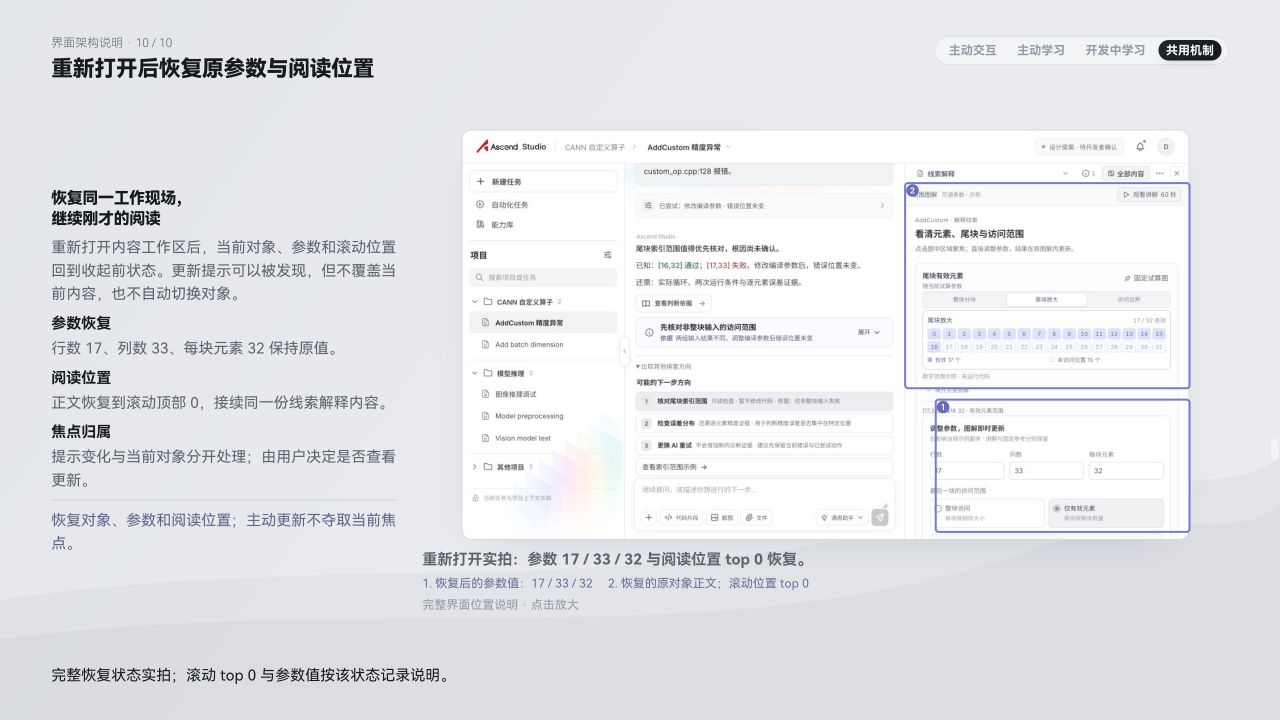
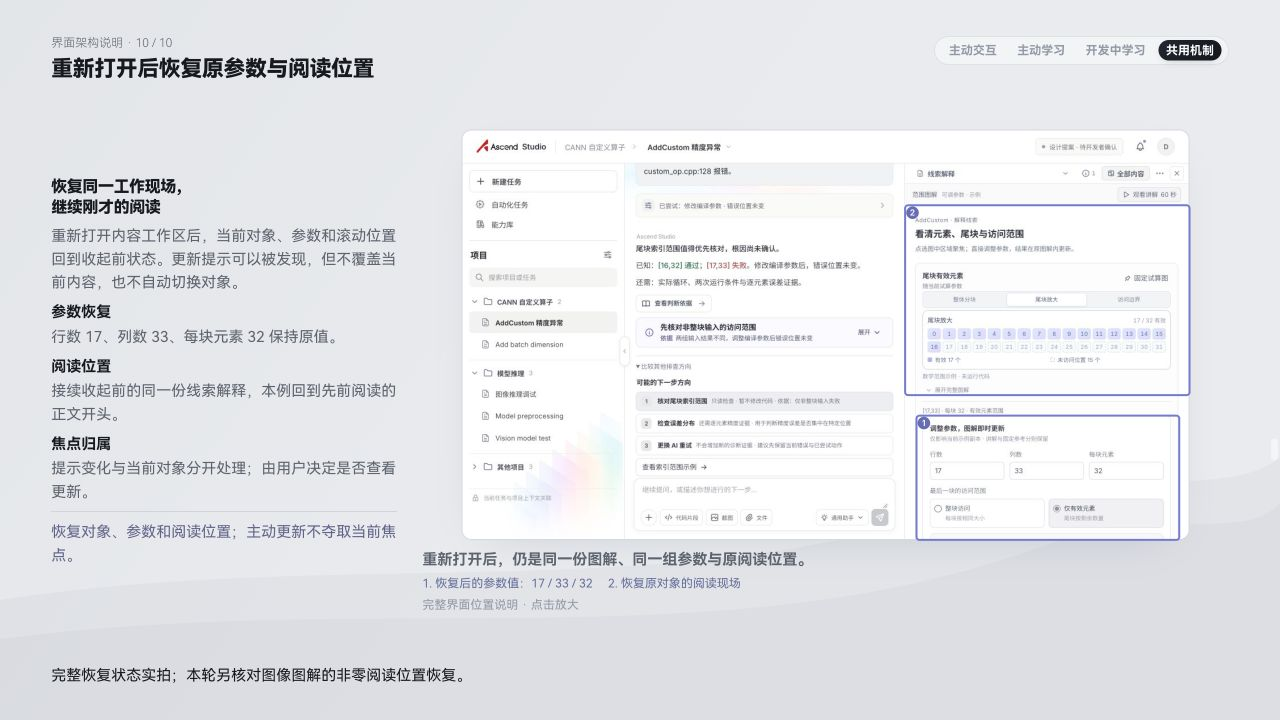
docs: record interface architecture deployment and final capture

diff --git a/ascend-studio/AGENTS.md b/ascend-studio/AGENTS.md
@@ -671,3 +671,5 @@ Build app UI in `src/`. Keep `.openai/hosting.json`, `worker/index.js`, `scripts
 - 本地核对：图解/代码/网页/Diff→总览→返回原Diff；宽716px并排、窄446/500px上下，图解滚720px而代码仍18.5px，结束回原代码；AddCustom收起恢复17/33/32及原正文开头，图像收起恢复轴2/0/1和383.5px位置，再切回AddCustom保留参数。Demo390×844无横溢、1280×480正文347px。材料1280×720/1440×900十页逐页top0且图载入、正文不压页脚；390十页宽390/body359可滚；原图放大保框、Esc焦点返回，31→32与刷新#32恢复。5174日志error/warn为空。未新增或运行自动测试，未完整覆盖无障碍/原生全屏/真实并发。
 - 构建/静态：Vite build:pages通过，index-BDlRHhm4.js/index-CJbsqT_T.css（既有565kB主包提示保留）；63页/10架构/21状态、唯一ID、零缺图，目录JS/MJS/2份内联JS语法及diff检查通过。Luna分担材料版式、分组纯函数和内容工具/文档，主代理集成、修正分组/历史、框坐标/索引和实际浏览器核对。
 - 当前本轮代码与材料已完成，本次主要评审31–40界面分区和层级及Demo普通正文/总览/对照/收起的关系。后续学习起步、完整视频/图像专属主动提示、官网/GitCode业务协作仍按既有范围待适配；主题仍是两任务预置，不承诺任意AI语义归类。API/Host/Application事实不变，无真实工程/模型/NPU新验证。只暂存本轮文件并立即push，回执随后补；其他WIP全部保留。
+
+- 提交/发布回执：3b94df74（feat: unify content workspace architecture and document full interface states）已成功推送origin/main，仅59个本轮文件；Pages运行39355014413已成功。公开Demo HTTP200并引用index-BDlRHhm4.js，材料HTTP200且含10个架构页与新完整实拍路径。线上源已更新，视觉检查依据为本地IAB。补回最终文案对应的恢复页证据图，5174拍摄会话/临时服务已关闭，5173与8765服务和用户数据保留，viewport已reset；预览停#31。其他WIP未暂存。

diff --git a/AGENTS.md b/AGENTS.md
@@ -5235,3 +5235,5 @@ node node_modules/vitepress/bin/vitepress.js dev --port 5300
 - 本地核对：图解/代码/网页/Diff→总览→返回原Diff；宽716px并排、窄446/500px上下，图解滚720px而代码仍18.5px，结束回原代码；AddCustom收起恢复17/33/32及原正文开头，图像收起恢复轴2/0/1和383.5px位置，再切回AddCustom保留参数。Demo390×844无横溢、1280×480正文347px。材料1280×720/1440×900十页逐页top0且图载入、正文不压页脚；390十页宽390/body359可滚；原图放大保框、Esc焦点返回，31→32与刷新#32恢复。5174日志error/warn为空。未新增或运行自动测试，未完整覆盖无障碍/原生全屏/真实并发。
 - 构建/静态：Vite build:pages通过，index-BDlRHhm4.js/index-CJbsqT_T.css（既有565kB主包提示保留）；63页/10架构/21状态、唯一ID、零缺图，目录JS/MJS/2份内联JS语法及diff检查通过。Luna分担材料版式、分组纯函数和内容工具/文档，主代理集成、修正分组/历史、框坐标/索引和实际浏览器核对。
 - 当前本轮代码与材料已完成，本次主要评审31–40界面分区和层级及Demo普通正文/总览/对照/收起的关系。后续学习起步、完整视频/图像专属主动提示、官网/GitCode业务协作仍按既有范围待适配；主题仍是两任务预置，不承诺任意AI语义归类。API/Host/Application事实不变，无真实工程/模型/NPU新验证。只暂存本轮文件并立即push，回执随后补；其他WIP全部保留。
+
+- 提交/发布回执：3b94df74（feat: unify content workspace architecture and document full interface states）已成功推送origin/main，仅59个本轮文件；Pages运行39355014413已成功。公开Demo HTTP200并引用index-BDlRHhm4.js，材料HTTP200且含10个架构页与新完整实拍路径。线上源已更新，视觉检查依据为本地IAB。补回最终文案对应的恢复页证据图，5174拍摄会话/临时服务已关闭，5173与8765服务和用户数据保留，viewport已reset；预览停#31。其他WIP未暂存。

diff --git a/cann-dashboard/ploy-interaction-lab/learning-canvas-story/QA.md b/cann-dashboard/ploy-interaction-lab/learning-canvas-story/QA.md
@@ -79,3 +79,5 @@
 - 原图：390宽打开恢复状态原图，1280原图与2个框正常，Esc关闭后焦点返回原放大按钮。键盘31→32、刷新仍#32且top0。5174日志error/warn为空。未新增或运行自动测试；本轮不重复完整无障碍/原生全屏/多标签并发验收。
 - 构建与静态：Vite Pages构建通过（index-BDlRHhm4.js/index-CJbsqT_T.css）；保留已有约565kB主包提示。材料构建63页/10架构/21状态，唯一ID、零缺图，MJS/目录JS及2份内联JS语法、diff检查通过。证据在evidence/interface-architecture-20261020及Studio对应目录。
 - 边界：HiAscend iframe被原站拒绝，材料浏览器正常正文使用已有本地Agent机制参考页；不声称官方页加载成功。任务分组仍为两案例预置；静态照片不证明任意AI归类、真实后台并发、代码/模型/NPU执行。发布结果以主代理最终回执为准。
+
+- 发布回执（2026-10-20）：功能提交 `3b94df74` 已推送；Pages运行 `39355014413` 成功。公开Demo与材料均HTTP200，分别确认新bundle及10个架构页。视觉核对依据为本地IAB；架构评审仍待用户。

diff --git a/cann-dashboard/ploy-interaction-lab/learning-canvas-story/README.md b/cann-dashboard/ploy-interaction-lab/learning-canvas-story/README.md
@@ -105,3 +105,5 @@
 - 图解、代码、网页和 Diff 都在共用外壳内；复制、观看讲解等内容工具移入各自工具区，采用、核对、运行等会改变状态的主动作留在正文相关位置。`ContentToolbar` 使用每个正文自己的 portal slot，避免工具随正文滚动而消失；没有工具时空 slot 不占位。
 - 两个任务仍按预置内容映射适配，不承诺任意 AI 自动归类。网页浏览实拍改用仓库已有的 Agent 机制参考页；原昇腾官方页面 iframe 拒绝加载，不声称官方页已加载通过。
 - 主代理已完成宽窄布局、内容切换/总览/对照/收起恢复与材料放大检查，详见QA和evidence/interface-architecture-20261020。用户架构评审仍待进行，发布以最终回执为准；不声称官方页加载或任意AI归类通过。
+
+- 发布回执（2026-10-20）：功能提交 `3b94df74` 已推送；Pages运行 `39355014413` 成功。公开Demo与材料均HTTP200，分别确认新bundle及10个架构页。视觉核对依据为本地IAB；架构评审仍待用户。
